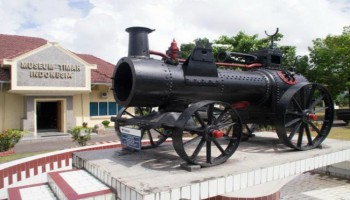
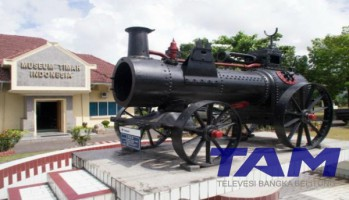
finish crud posts

Changed region(s): [[0.6017, 0.72, 0.9742, 0.96]]

diff --git a/public/admin/app/editor.js b/public/admin/app/editor.js
@@ -22,24 +22,17 @@ $(function()
 		"alignleft aligncenter alignright alignjustify | "+
 		"bullist numlist outdent indent  | link image media table insertdatetime | code visualblocks ",
 		image_advtab: true,
-		style_formats: [
-			{title: 'Bold text', format: 'h1'},
-			{title: 'Red text', inline: 'span', styles: {color: '#ff0000'}},
-			{title: 'Red header', block: 'h1', styles: {color: '#ff0000'}},
-			{title: 'Example 1', inline: 'span', classes: 'example1'},
-			{title: 'Example 2', inline: 'span', classes: 'example2'},
-			{title: 'Table styles'},
-			{title: 'Table row 1', selector: 'tr', classes: 'tablerow1'}
-		],
-
 		link_class_list: [
-			{title: 'Example 1', value: 'example1'},
-			{title: 'Example 2', value: 'example2'}
+			{title: 'Green', value: 'example1'},
+			{title: 'Red', value: 'example2'},
+			{title: 'Yellow', value: 'example2'},
+			{title: 'Grey', value: 'example2'}
 		],
-
 		image_class_list: [
 			{title: 'Responsive', value: 'img-responsive'},
-			{title: 'Rounded', value: 'img-rounded'}
+			{title: 'Rounded', value: 'img-rounded'},
+			{title: 'Responsive Right', value: 'img-responsive pull-right'},
+			{title: 'Responsive Left', value: 'img-responsive pull-left'}
 		]
 	});
 

diff --git a/public/theme/css/main.css b/public/theme/css/main.css
@@ -599,6 +599,10 @@ article.content-news > section > p {
   line-height: 1.5em;
 }
 
+article.content-news > section > p img.pull-right {
+  margin: 20px 0px 20px 20px;
+}
+
 article.content-news > section > ul, 
 article.content-news > ol {
   margin-left: -20px;
@@ -1047,3 +1051,19 @@ section.comment-list > div.media > div.media-body > a {
   padding-left: 10px;
 
 }
+ /*  HELPER */
+ .bottom2x {
+  margin-bottom: 20px;
+ }
+ .left2x {
+  margin-left: 20px;
+ }
+  .left3x {
+  margin-left: 30px;
+ }
+ .top2x {
+  margin-top: 20px;
+ }
+ .top4x {
+  margin-top: 40px;
+ }

diff --git a/application/models/Cpost.php b/application/models/Cpost.php
@@ -227,9 +227,9 @@ class Cpost extends CI_Model
 	{
 		$config['upload_path'] = './public/image/news';
 		$config['allowed_types'] = 'gif|jpg|png';
-		$config['max_size']  = '3000';
-		$config['max_width']  = '3072';
-		$config['max_height']  = '2160';
+		$config['max_size']  = '4000';
+		$config['max_width']  = '4000';
+		$config['max_height']  = '3000';
 		$config['overwrite'] = TRUE;
 		$config['file_name'] = $this->create_post_slug();
 
@@ -251,6 +251,13 @@ class Cpost extends CI_Model
 			{
 				$post = $this->get( $param );
 
+				$this->set_watermark($post->image);
+
+				$this->create_thumb($post->image, 'large');
+
+				$this->create_thumb($post->image, 'small');
+
+				$this->create_thumb($post->image, 'x-small');
 				return $post->image;
 			}
 		}

diff --git a/application/views/pages/single.php b/application/views/pages/single.php
@@ -49,7 +49,7 @@ $author = $this->posts->get_post_author($post->ID);
 				<?php  
 				if( $post->image ) :
 				?>
-				<figure>
+				<figure class="top2x">
 				  	<img src="<?php echo $this->posts->get_thumbnail($post->image) ?>" alt="" class="img-responsive">
 				  	<figcaption><?php echo $post->post_excerpt; ?> </figcaption>
 				</figure>

diff --git a/application/controllers/administrator/Post.php b/application/controllers/administrator/Post.php
@@ -82,7 +82,7 @@ class Post extends Admin_panel
 		{
 			$post = $this->cpost->create();
 
-			redirect(current_url("administrator/post/update/{$post}"));
+			redirect(base_url("administrator/post/update/{$post}"));
 		} 
 
 		$this->data = array(
